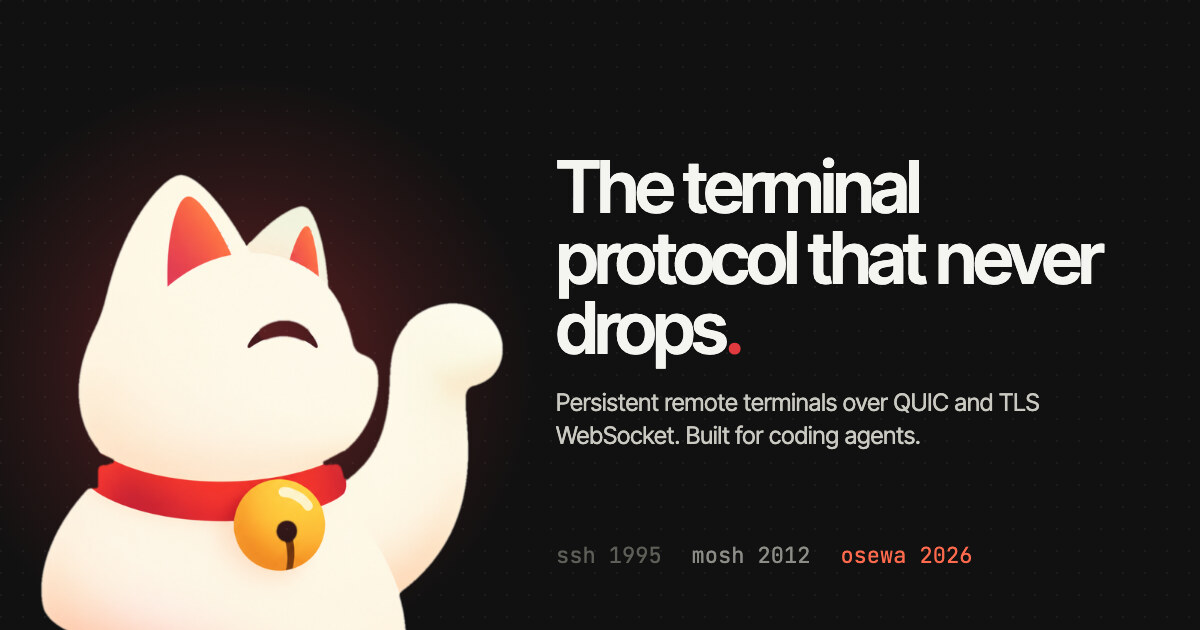
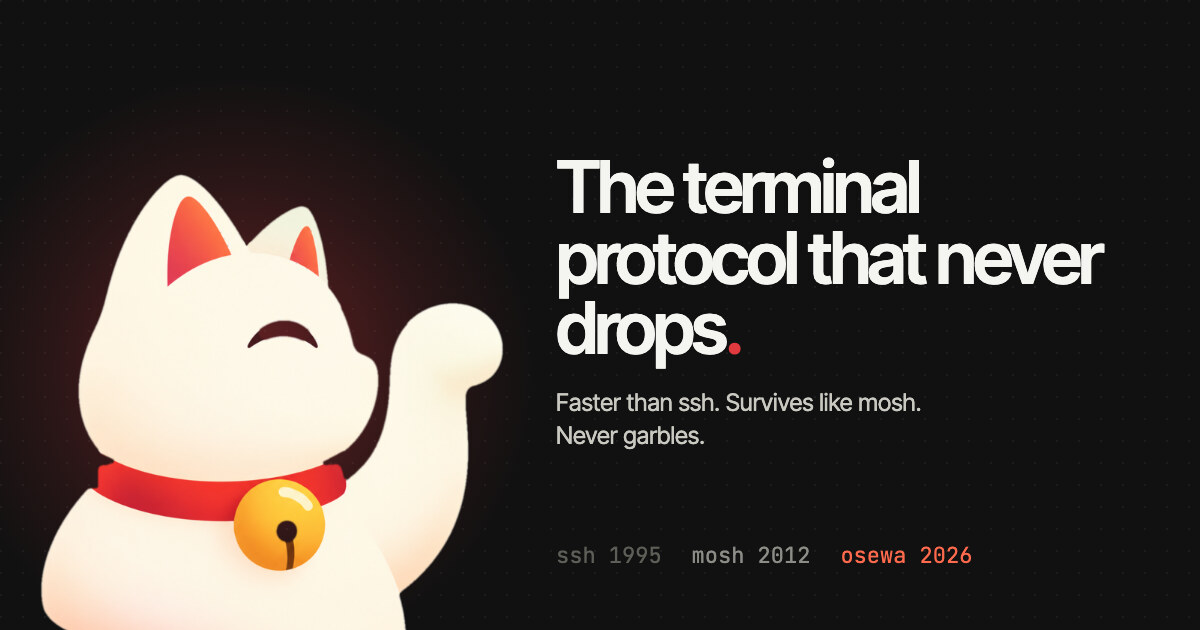
site: lead with what it gains you, and say it's safe up top
The hero, meta description and share card lead with "Faster than ssh.
Survives like mosh. Never garbles." instead of comparisons that assume
you know where ssh and mosh fall short.

Security comes earlier: the hero's spec line reads "TLS 1.3 · Ed25519
keys on both ends · port 7322" and links to the FAQ, whose "Is it as
safe as ssh?" now comes first and starts open; the carrier race says
both roads are TLS 1.3 with the same pinned keys.

Changed region(s): [[0.4625, 0.6032, 0.8633, 0.7238]]

diff --git a/site/og/og.html b/site/og/og.html
@@ -21,6 +21,6 @@ p{margin:22px 0 0;font-size:24px;line-height:1.4;color:#C9C9C2}
 <div class="glow"></div><img class="cat" src="cat.png">
 <div class="l">
 <h1>The terminal protocol that never drops<i>.</i></h1>
-<p>Persistent remote terminals over QUIC and TLS WebSocket. Built for coding agents.</p>
+<p>Faster than ssh. Survives like mosh.<br>Never garbles.</p>
 <div class="h"><span style="color:#5E5E59">ssh 1995</span><span style="color:#8C8C86">mosh 2012</span><span style="color:#FF6A4D">osewa 2026</span></div>
 </div></div></body></html>
